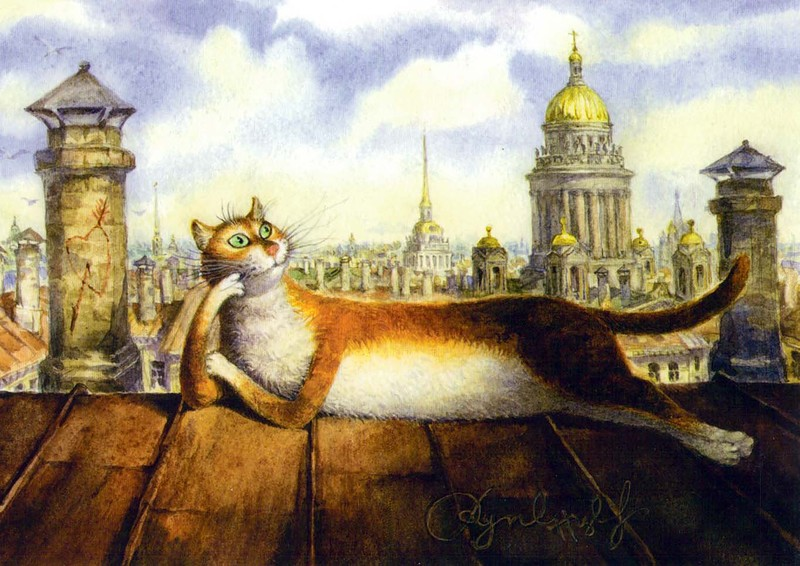
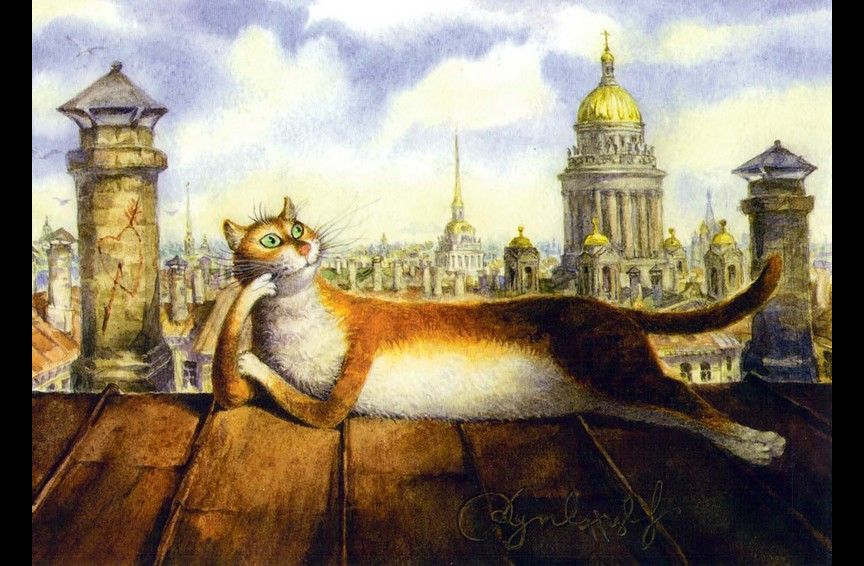
feat: edit pictures for better fitness (Tue, May 17, 2022 10:53:16 PM)

diff --git a/cssMemSlider/style.css b/cssMemSlider/style.css
@@ -18,12 +18,11 @@ h1 {
 
 .wrapper {
   margin: 1.2rem auto;
-  max-width: 1000px;
+  max-width: 60rem;
   width: 90vw;
   max-height: 90vh;
   display: flex;
   flex-direction: column;
-  
   background: #000000;
   border: solid 0.2rem #FFA500;
   border-radius: 0.4rem;
@@ -34,39 +33,40 @@ input[type="radio"] {
 }
 
 .image-box {
-  max-width: 700px;
+  max-width: 45rem;
   width: 95%;
-  max-height: 70%;
+  height: fit-content;
   margin: 0.5rem auto;
-  background: #DCDCDC;
+  border: 0.1rem solid #FFFFFF;
+  border-radius: 0.2rem;
   overflow: hidden;
 }
 
 .slider {
   width: 500%;
   height: 100%;
+  align-items: flex-start;
   display: flex;
   
 }
 
 .slide {
   width: 20%;
-  height: max-content;
+  height: 100%;
   transition: 0.4s;
 }
 
 .slide img {
   display: block;
+  width: 100%;
+  height: 100%;
   object-fit: contain;
-  width: fit-content;
-  max-width: 100%;
-  height: fit-content;
-  margin: 0 auto;
+  object-position: center top;
 }
 
 .info-box {
   width: 95%;
-  max-width: 700px;
+  max-width: 45rem;
   margin: 0.5rem auto;
   display: flex;
   flex-direction: row;
@@ -102,6 +102,7 @@ input[type="radio"] {
 
 .labels-box {
   display: flex;
+  margin-right: -0.5rem;
 }
 
 label {
@@ -129,6 +130,10 @@ label {
 .radio-label-square:active .radio-label-circle {
   box-shadow: 0 0 0.5rem 0.5rem #00FF00;
 }
+
+/* input[type="radio"]:checked ~ .info-box .radio-label-square:active .radio-label-circle {
+  box-shadow: none;
+} */
 
 #radio1:checked ~ .info-box label[for="radio1"] .radio-label-circle,
 #radio2:checked ~ .info-box label[for="radio2"] .radio-label-circle,
@@ -236,5 +241,6 @@ footer span {
 
   .labels-box {
     align-self: center;
+    margin-right: 0;
   }
 }
